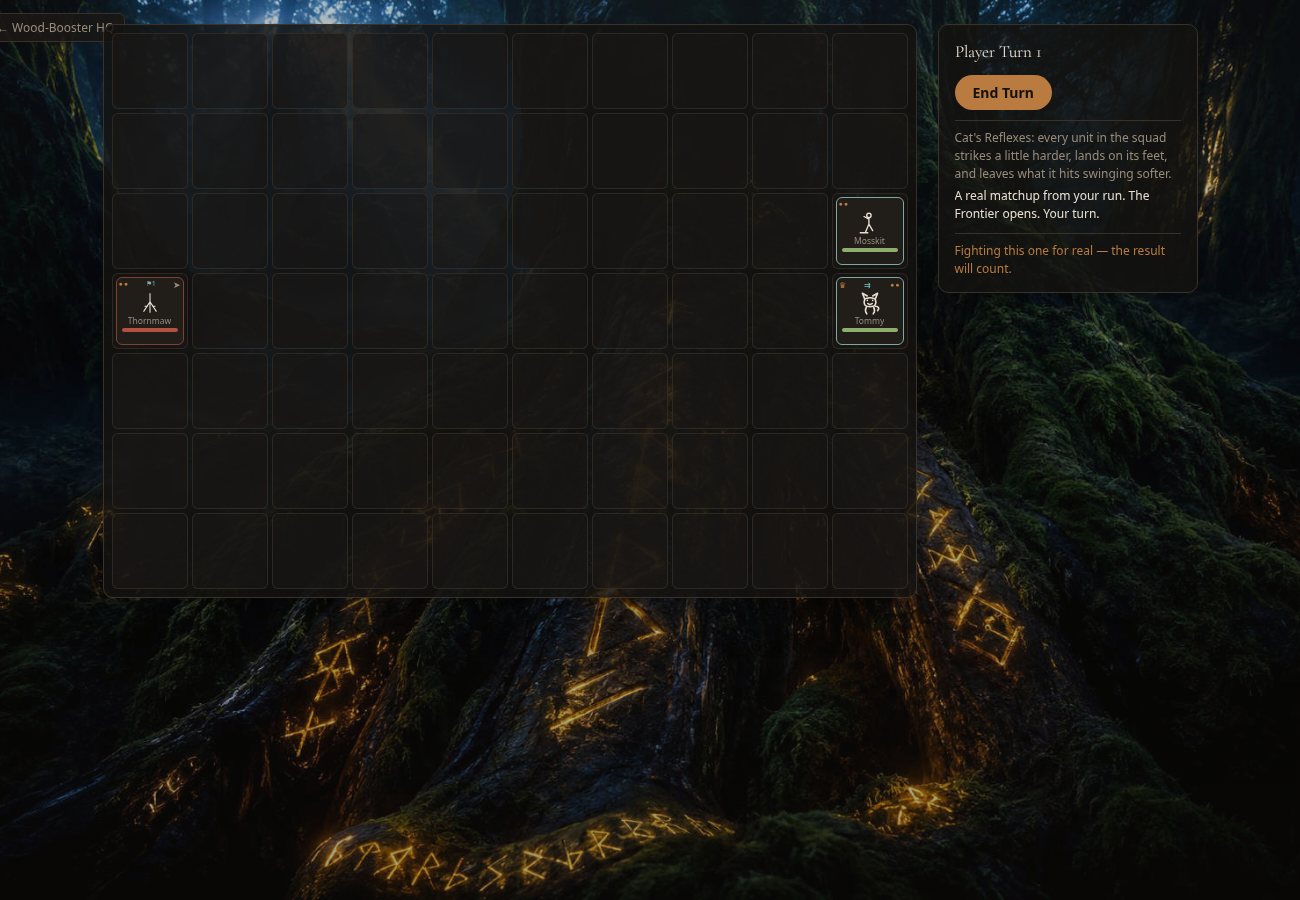
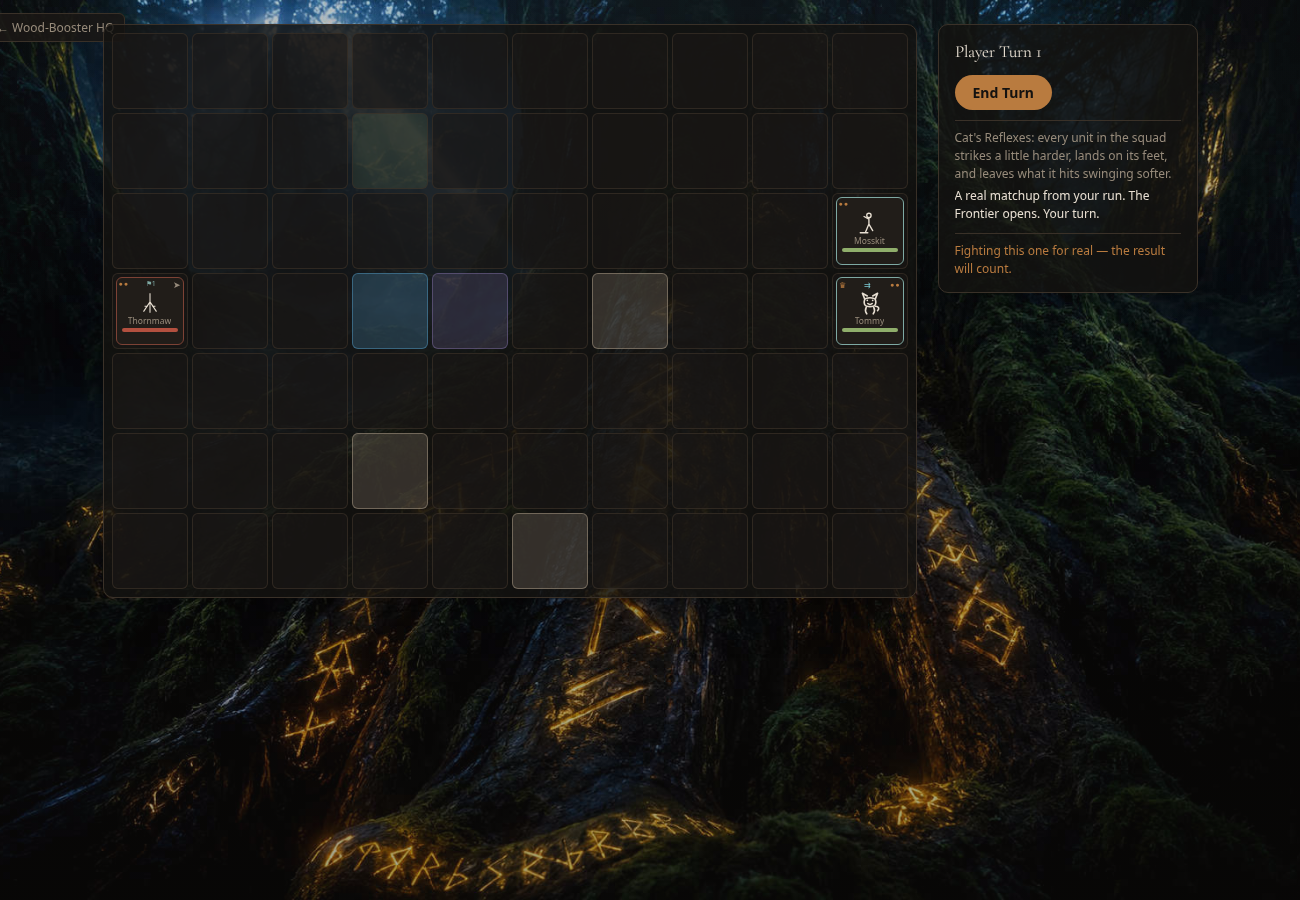
Hearthwood Frontier: seeded random terrain for every real fight
Marc: "jatketaan" after PR #485; picked "Terrain in a real fight", then
redirected before any hand-authoring began: "terrainille pitää tehdä
randomisointi tapa ja liittää se seed systeemiin jotta joka
taistelussa on hazardit terrainit ja muut" (build a randomization
method for terrain, tied into the seed system, so every battle has
hazards/terrain/other things) - then confirmed doing it immediately
rather than one hand-authored encounter first: "tehdään se heti, koska
ei ole syytä tehdä erikseen monta terrainia."

Read the real seed system (seed.js, PR #429) directly: SEED_STREAMS
already reserves a "combat" stream, explicitly flagged as "listed for
the map but NOT wired" back when it shipped. This round is that
stream's first real use - not a new invention. streamRng(seed, stream,
salt) is the exact same reproducible-generator contract every other
system (shop/item/loot/event) already uses.

- New generateRealTerrain(seed, nodeIndex) in tacticsRealMatchup.js
  (the one file already designated "reads the real run" - the engine's
  own isolation from the seed system stays intact): 6 scattered cells
  in the grid's middle 4 columns (never a spawn column), weighted
  rock/water/poison ("hazardit") 30/20/25% and forest (a zero-cost
  cosmetic variant - "ja muut") 25% - the same 4 real terrain ids
  tacticsEngine.js's own TERRAIN map already defines, no new type
  invented. Keyed by seed+nodeIndex so the same seed always regenerates
  the same battlefield for the same fight.
[…]

diff --git a/src/services/heartwood/tacticsRealMatchup.js b/src/services/heartwood/tacticsRealMatchup.js
@@ -21,15 +21,62 @@ import { deserializeRun } from "./runEngine"
 import { resolveFormation } from "../../data/heartwood/formations"
 import { ENEMIES } from "../../data/heartwood/enemies"
 import { UNITS } from "../../data/heartwood/units"
+import { streamRng } from "../../data/heartwood/seed"
+import { GRID } from "./tacticsEngine"
 
 // Only these two phases mean "the player is standing in front of, or
 // mid-way through, a real fight" - every other phase (shop/relic/event/
 // choice/victory/defeat) has no "current enemy" worth previewing.
 const PREVIEWABLE_PHASES = new Set(["formation", "battle"])
 
+// Seeded terrain round: how many scattered hazard/terrain cells a real
+// fight gets, and their weighted type mix - the real 4 ids already
+// defined in tacticsEngine.js's own TERRAIN map, no new type invented.
+// rock/water/poison are the real hazards ("hazardit"); forest is a
+// zero-cost cosmetic variant ("ja muut" - Marc's own "and other
+// things") so a fight can look different even when nothing dangerous
+// lands nearby.
+const TERRAIN_HAZARD_COUNT = 6
+function pickTerrainType(roll) {
+  if (roll < 0.3) return "rock"
+  if (roll < 0.5) return "water"
+  if (roll < 0.75) return "poison"
+  return "forest"
+}
+
+// Seed System PRD (seed.js's own SEED_STREAMS): "combat" was reserved
+// from PR #429 onward but never wired - this is its first real use, not
+// a new stream invented. streamRng(seed, "combat", `${nodeIndex}:terrain`)
+// is a fresh, stable generator - the SAME (seed, nodeIndex) always
+// regenerates the SAME battlefield (reload-safe, share-a-seed-safe),
+// matching every other stream-consuming caller's own contract exactly.
+// Confined to the grid's middle 4 columns (3-6 of GRID.cols=10) so
+// neither side's own spawn column is ever touched - the same "hazards
+// live between the two sides" shape The Crossing's own hand-authored
+// layout already established. A pure function of (seed, nodeIndex) -
+// tacticsEngine.js itself stays unaware the seed system exists at all;
+// it just receives a plain terrain map, indistinguishable from a
+// hand-authored ENEMY_FORMATIONS one.
+export function generateRealTerrain(seed, nodeIndex) {
+  const rng = streamRng(seed, "combat", `${nodeIndex}:terrain`)
+  const terrain = {}
+  let placed = 0
+  let attempts = 0
+  while (placed < TERRAIN_HAZARD_COUNT && attempts < TERRAIN_HAZARD_COUNT * 4) {
+    attempts++
+    const row = Math.floor(rng() * GRID.rows)
+    const col = 3 + Math.floor(rng() * 4)
+    const key = `${row}-${col}`
+    if (terrain[key]) continue
+    terrain[key] = pickTerrainType(rng())
+    placed++
+  }
+  return terrain
+}
+
 // Resolves an already-in-memory runState + node into { label, squadDefIds,
-// enemyDefIds, characterId, commanderRank } for the tactics engine's
-// createRealMatchupBattle, or null when there's nothing resolvable (no
+// enemyDefIds, characterId, commanderRank, terrain } for the tactics
+// engine's createRealMatchupBattle, or null when there's nothing resolvable (no
 // encounter id, or an empty squad/enemy side). Pure - no localStorage
 // touch at all, so HeartwoodBattle.jsx can call this directly on the
 // LIVE runState it already has in React state, no round-trip needed.
@@ -62,6 +109,10 @@ export function resolveRealMatchup(runState, node) {
     // Squad Passive) the player actually has, not a hardcoded default.
     characterId: runState.characterId,
     commanderRank: runState.commanderRank || 0,
+    // Seeded terrain round: a battlefield generated from the run's own
+    // seed + this node's own stable index - the same seed always
+    // regenerates the same terrain for the same fight.
+    terrain: generateRealTerrain(runState.seed, runState.nodeIndex),
   }
 }
 

diff --git a/src/services/heartwood/tacticsEngine.js b/src/services/heartwood/tacticsEngine.js
@@ -778,7 +778,7 @@ function spreadRows(count, gridRows) {
 // from the actual run, not a hardcoded default the way the isolated
 // prototype's own createTacticsBattle has to (no shop phase there to
 // have earned a real Rank-Up from).
-export function createRealMatchupBattle(squadDefIds, enemyDefIds, characterId = null, commanderRank = 0) {
+export function createRealMatchupBattle(squadDefIds, enemyDefIds, characterId = null, commanderRank = 0, terrain = {}) {
   const character = characterId ? CHARACTERS[characterId] : null
   const playerRows = spreadRows(squadDefIds.length + (character ? 1 : 0), GRID.rows)
   const enemyRows = spreadRows(enemyDefIds.length, GRID.rows)
@@ -802,9 +802,13 @@ export function createRealMatchupBattle(squadDefIds, enemyDefIds, characterId = 
   const withBaseline = withSquadPassive.map((u) => ({ ...u, baseAttack: u.attack }))
   return {
     grid: GRID,
-    // No terrain in a real matchup this round - terrain stays isolated-
-    // prototype-only, per this round's own stated scope.
-    terrain: {},
+    // Seeded terrain round: a real matchup's own terrain is generated
+    // by tacticsRealMatchup.js's generateRealTerrain (seed +
+    // nodeIndex-keyed, via seed.js's own reserved "combat" stream) and
+    // passed straight through here - this function stays fully
+    // unaware the seed system exists at all, exactly like it's always
+    // been unaware of ENEMY_FORMATIONS' own hand-authored terrain maps.
+    terrain,
     units: withBaseline,
     phase: "player",
     turn: 1,

diff --git a/src/pages/HeartwoodBattle.jsx b/src/pages/HeartwoodBattle.jsx
@@ -580,7 +580,7 @@ export default function HeartwoodBattle() {
       const node = current.path[current.nodeIndex]
       const matchup = resolveRealMatchup(current, node)
       if (!matchup) return current
-      let battle = createRealMatchupBattle(matchup.squadDefIds, matchup.enemyDefIds, matchup.characterId, matchup.commanderRank)
+      let battle = createRealMatchupBattle(matchup.squadDefIds, matchup.enemyDefIds, matchup.characterId, matchup.commanderRank, matchup.terrain)
       // The same QA-only ?debugLowHp=1 hook HeartwoodTactics.jsx's own
       // maybeDebugLowHp already uses - never a real feature, just lets a
       // verification pass reach a real win without grinding real attack

diff --git a/src/pages/HeartwoodTactics.jsx b/src/pages/HeartwoodTactics.jsx
@@ -100,7 +100,7 @@ export default function HeartwoodTactics() {
     setSelectedId(null)
     setAbilityMode(null)
     setUsingReal(true)
-    setBattle(maybeDebugLowHp(createRealMatchupBattle(realMatchup.squadDefIds, realMatchup.enemyDefIds, realMatchup.characterId, realMatchup.commanderRank)))
+    setBattle(maybeDebugLowHp(createRealMatchupBattle(realMatchup.squadDefIds, realMatchup.enemyDefIds, realMatchup.characterId, realMatchup.commanderRank, realMatchup.terrain)))
   }
 
   // The one way out of real-matchup mode - back to today's exact default
